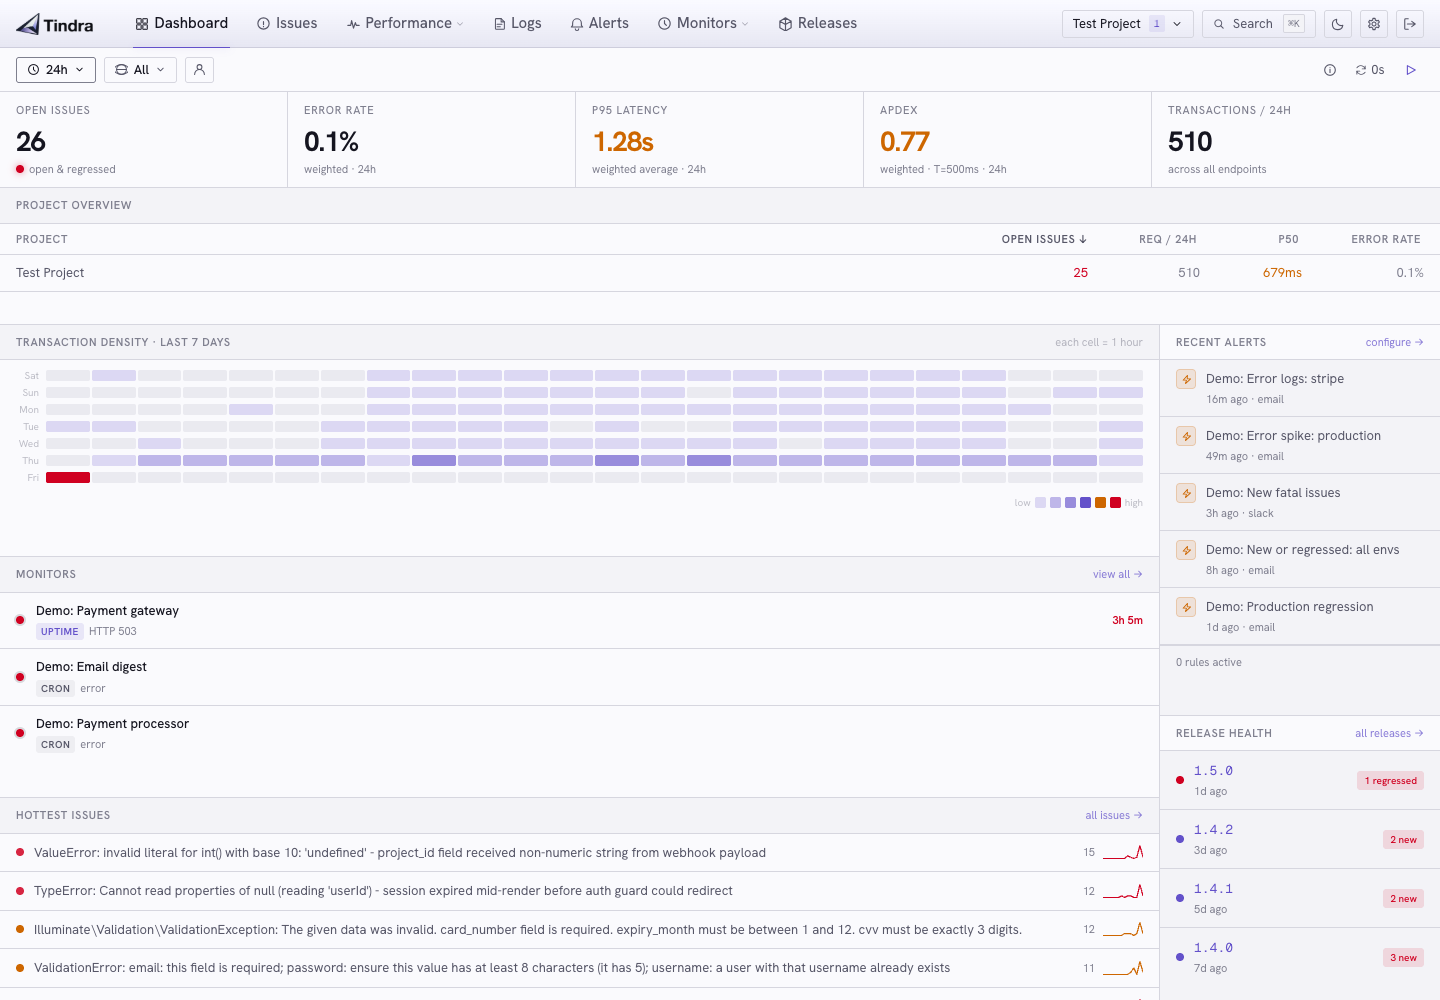
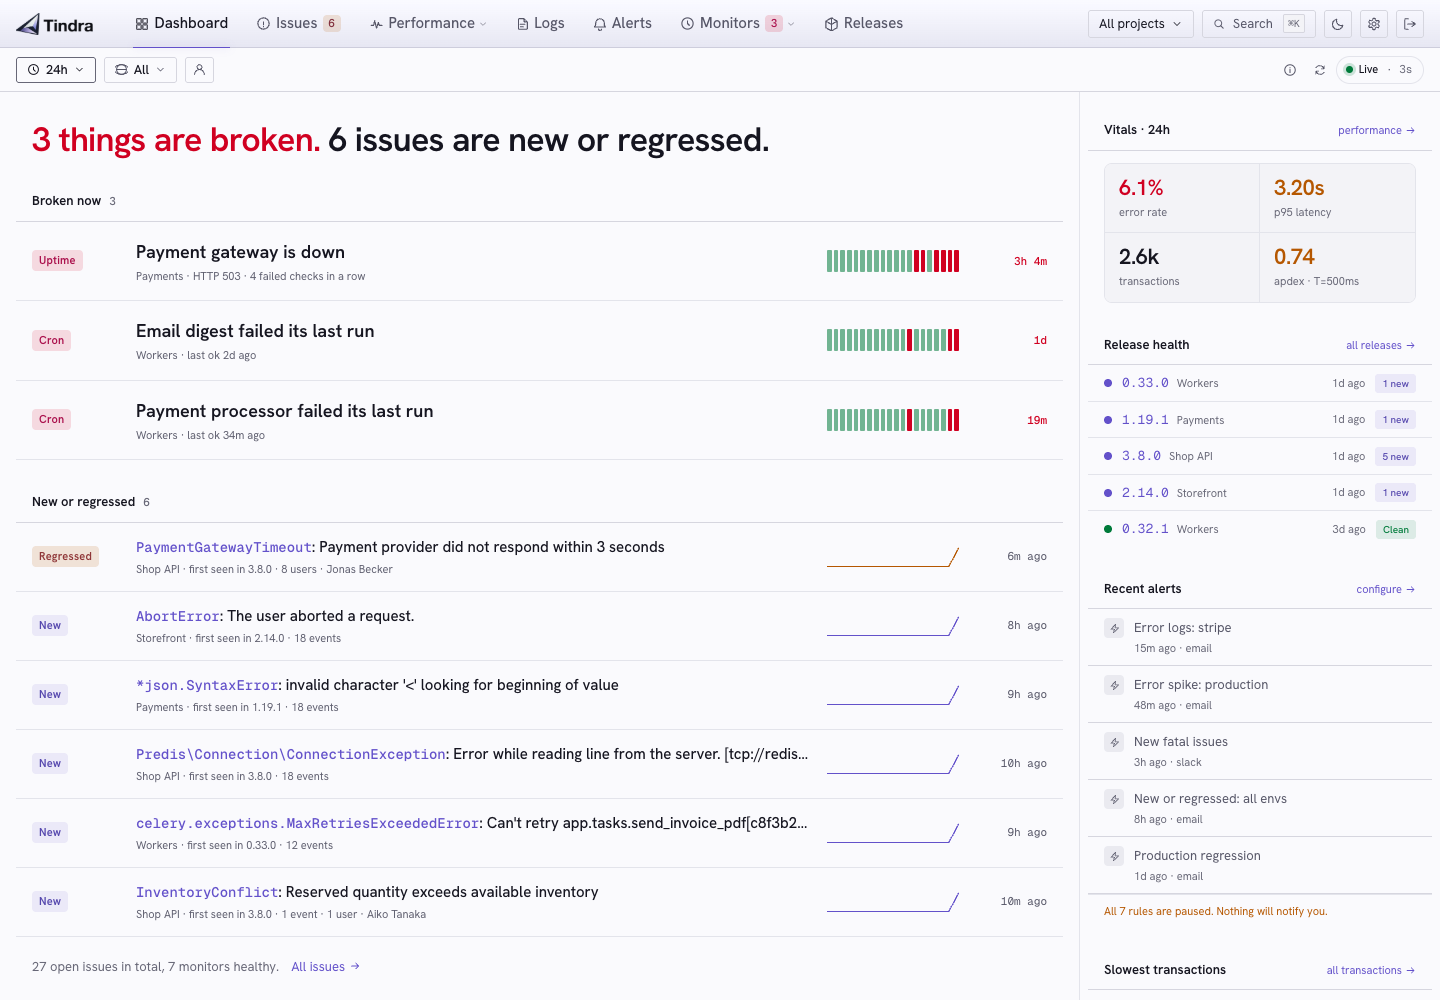
docs(readme): refresh dashboard screenshots and alt text for the new layout

diff --git a/README.md b/README.md
@@ -27,7 +27,7 @@
 <p align="center">
   <picture>
     <source media="(prefers-color-scheme: dark)" srcset="dashboard-dark.png">
-    <img src="dashboard-light.png" alt="Tindra dashboard showing error and latency metrics, transaction activity, monitors, issues, and release health">
+    <img src="dashboard-light.png" alt="Tindra dashboard leading with failing monitors and new or regressed issues, beside vitals, release health, and recent alerts">
   </picture>
 </p>
 
